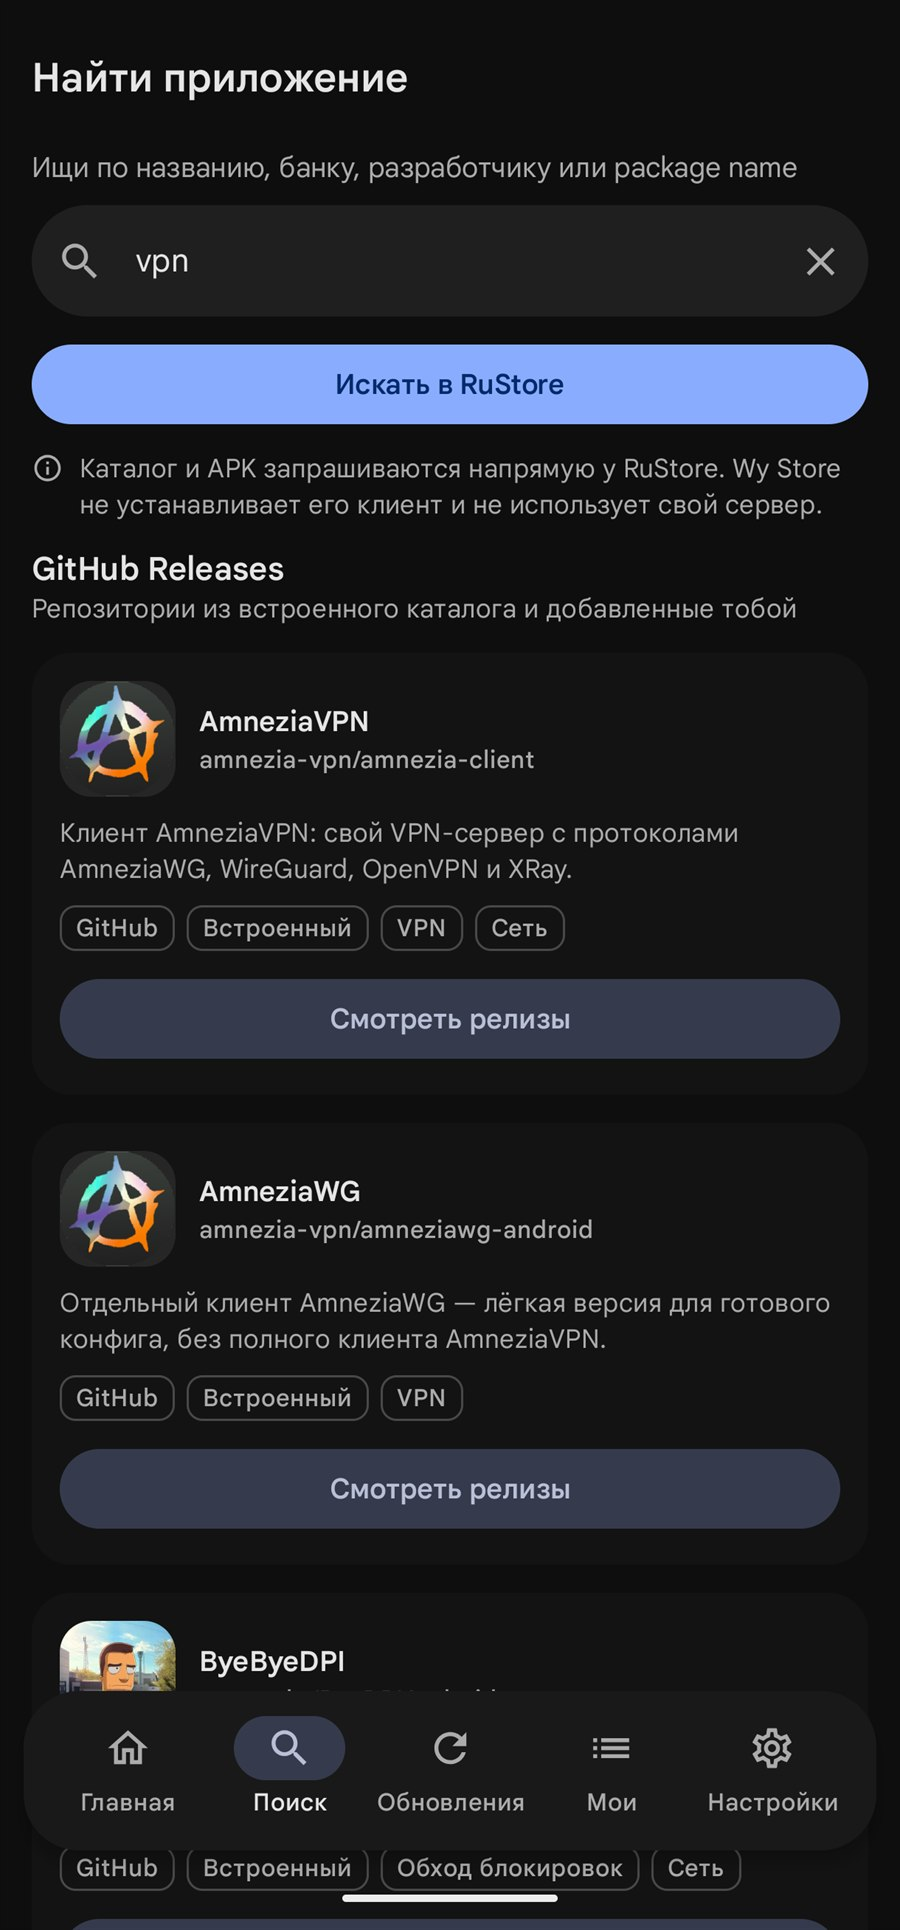
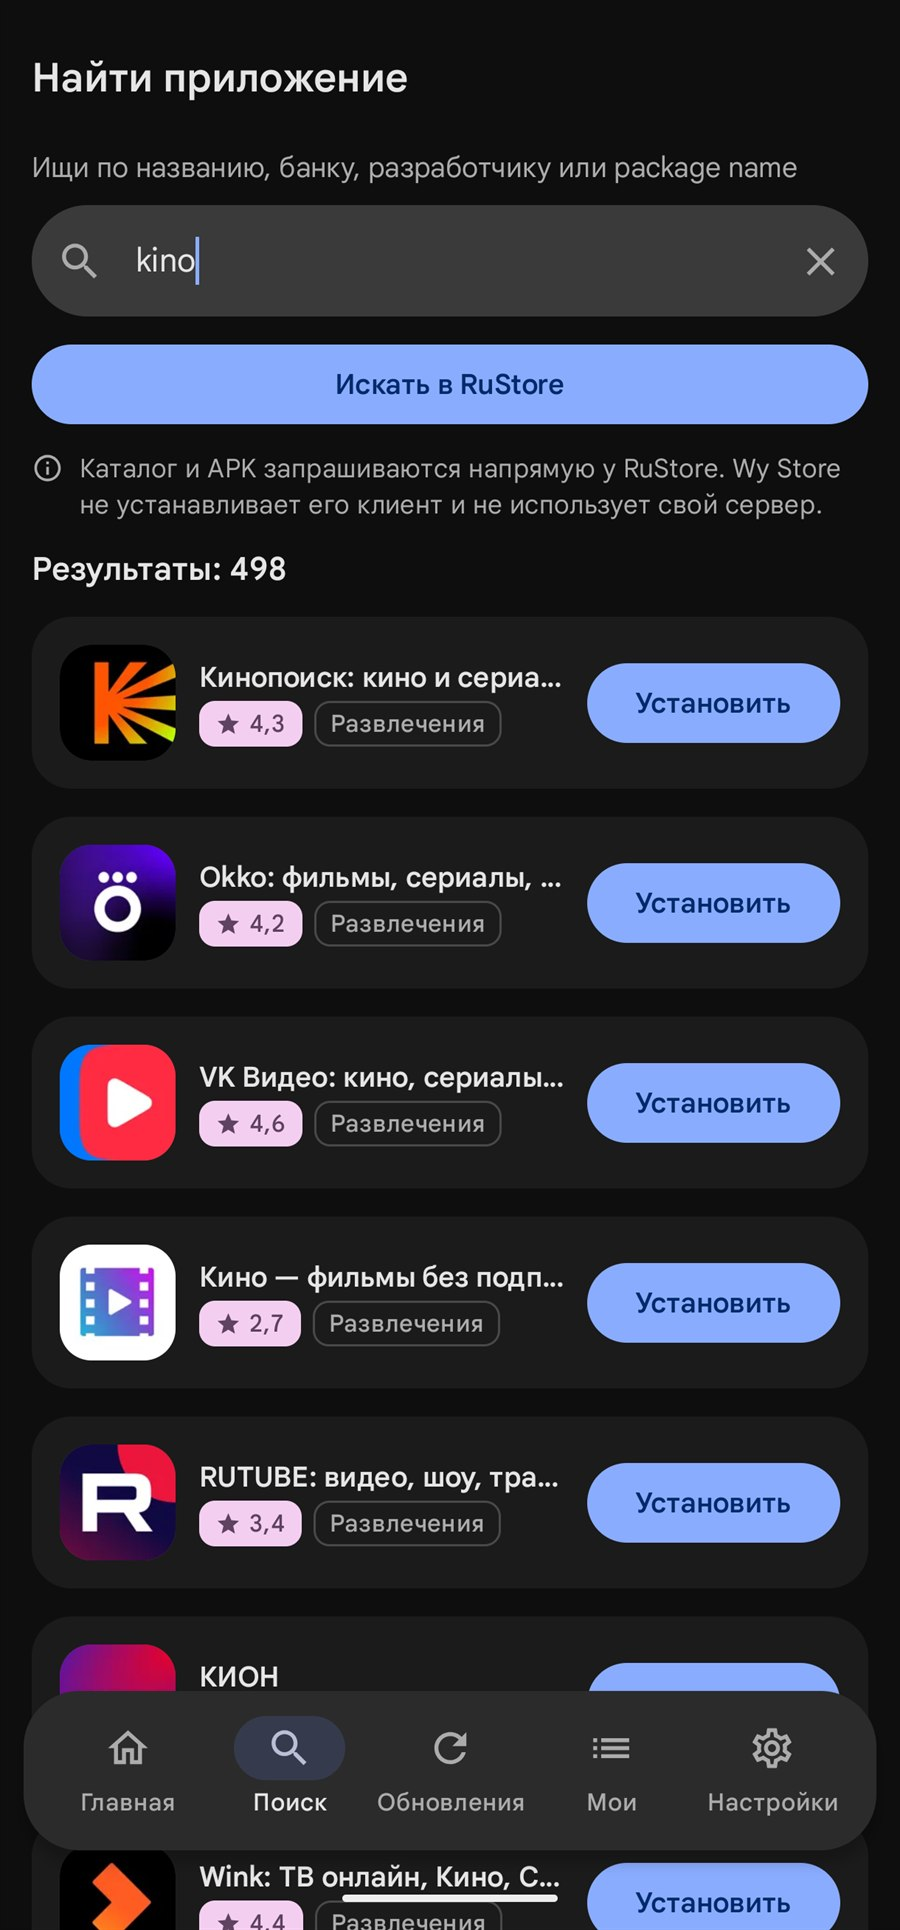
Retake the screenshots on a normal-size phone
The published set came from the compact device, so the layout in it is the
tightest the app ever draws rather than the one most people see. Retaken at the
normal density in both languages, with the GitHub row scrolled past the VPN
clients: a store card is not the place to lead with them.

The review set gains a settings shot and drops the notification one, which said
less than the screen it replaced. The reviews shot is now framed on the
breakdown instead of the promo art above it.

diff --git a/docs/screenshots/review/README.md b/docs/screenshots/review/README.md
@@ -1,5 +1,6 @@
 Скриншоты для обзора Wy Store в Telegraph.
 
-Отдельная папка, потому что статья ссылается на эти файлы по прямым URL: их нельзя
-переименовывать и перемещать, пока опубликованный обзор жив. Скриншоты для README лежат
-уровнем выше и живут своей жизнью.
+Отдельная папка, потому что статья ссылается на эти файлы по прямым URL
+(`raw.githubusercontent.com/.../docs/screenshots/review/<файл>`): пока обзор
+опубликован, файлы нельзя переименовывать и перемещать — только заменять
+содержимым. Скриншоты для README лежат уровнем выше и живут своей жизнью.
